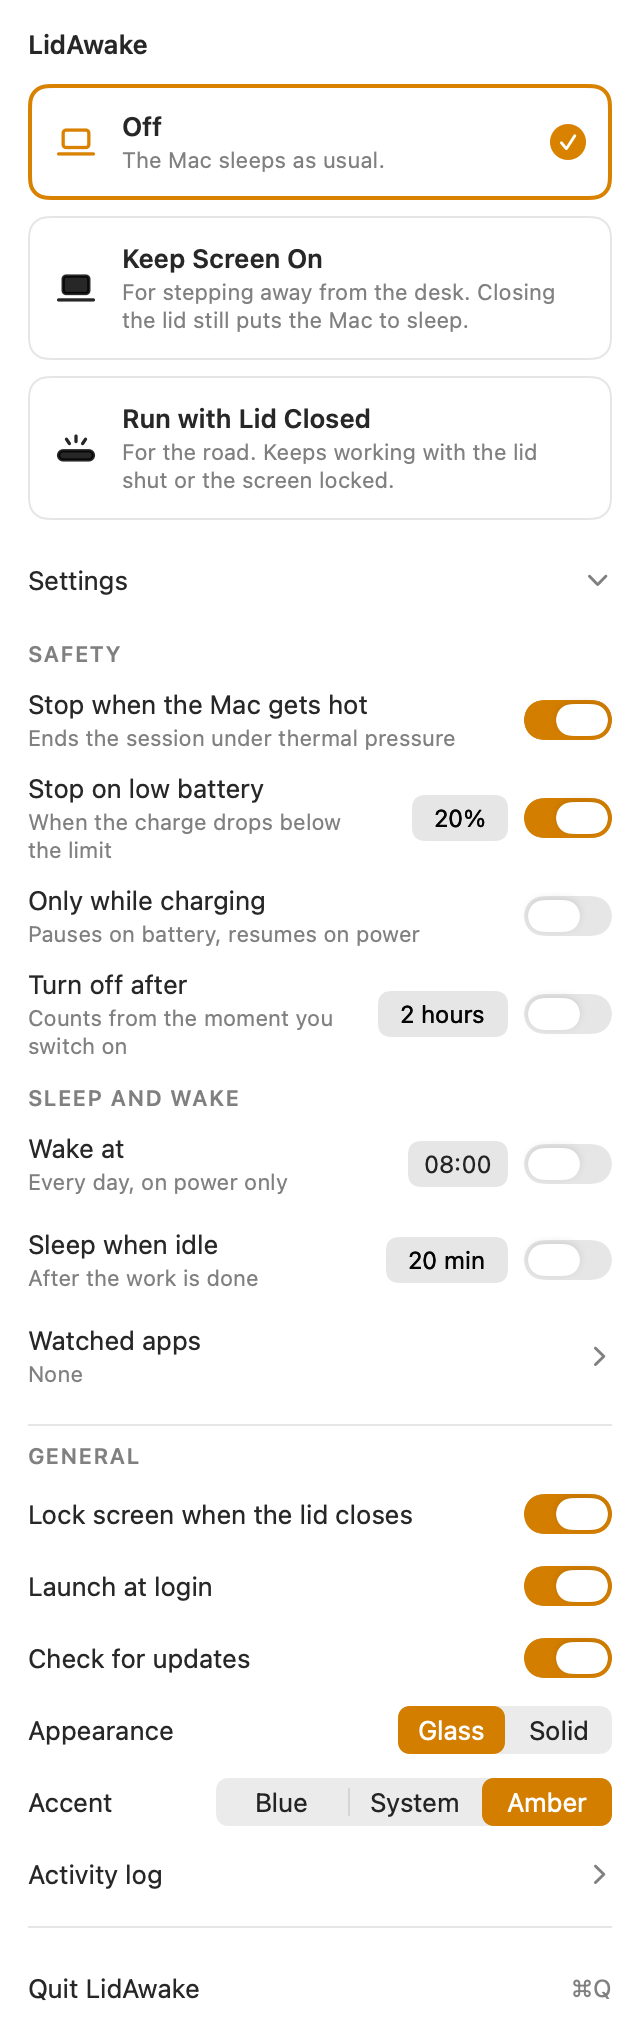
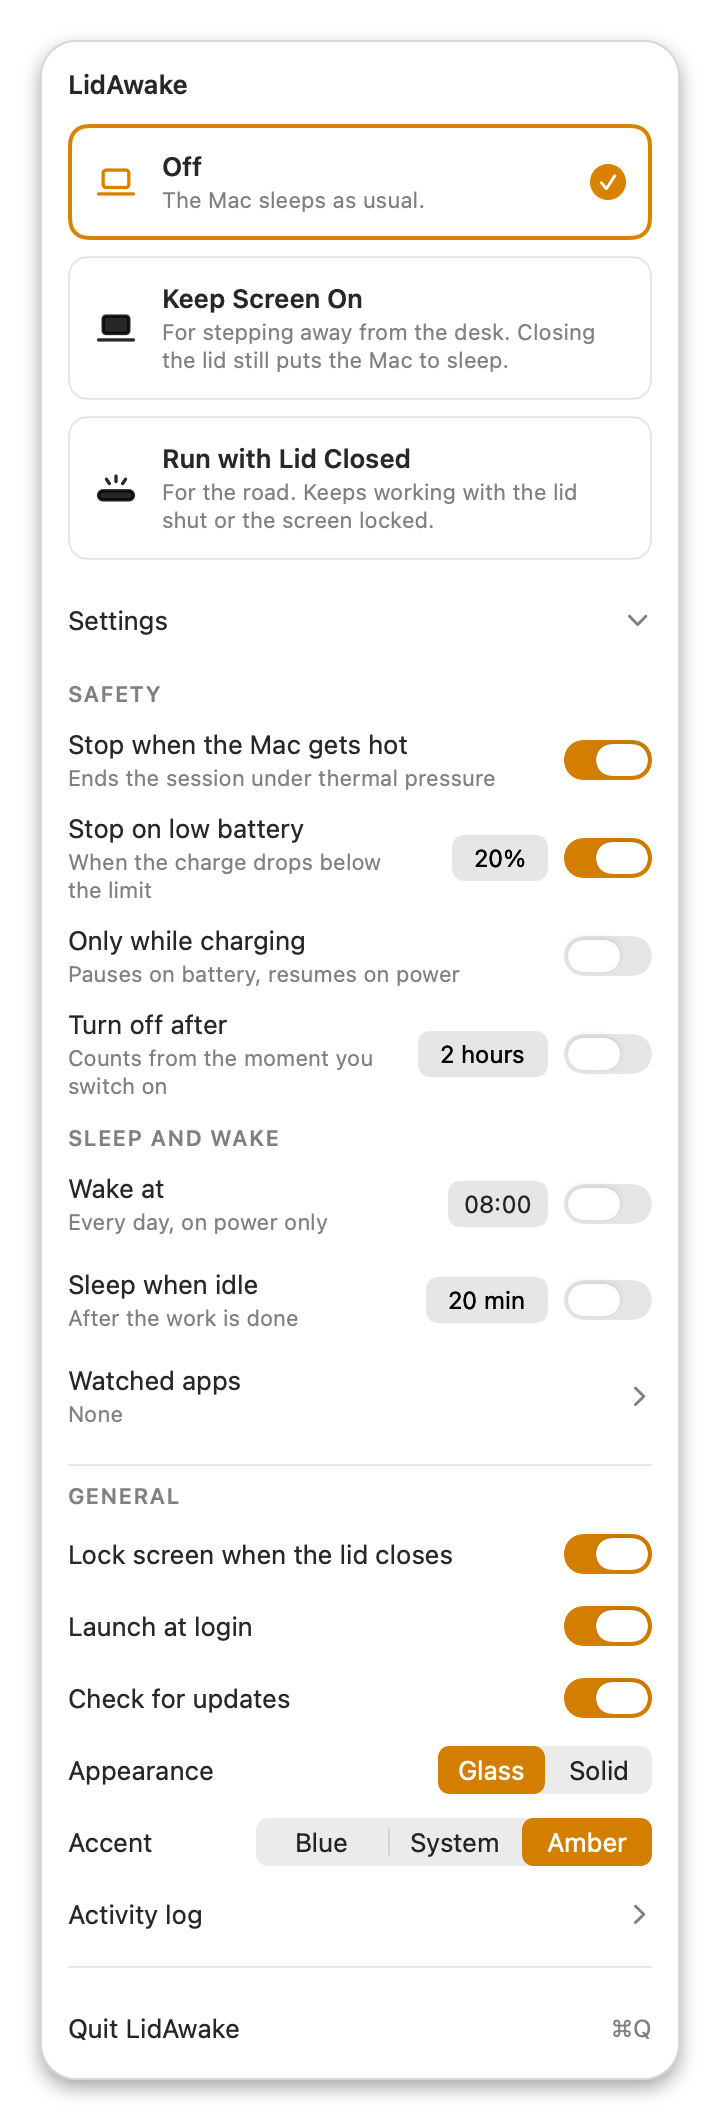
Frame settings images in README

diff --git a/README.md b/README.md
@@ -92,8 +92,8 @@ caffeinate -i make release
 A coding agent in an editor thinks on a server and barely uses the processor, so on its own it can look idle. Watched apps in Settings fixes that: choose the editor or terminal you run it in, and while that app runs programs it started, LidAwake counts it as work. The app's own windows, and typing in it, do not count. The window lists the apps that are open now and the watched apps that are not, and marks the ones whose started programs are working.
 
 <p align="center">
-  <img src="docs/images/settings-blue.png" width="335" alt="The LidAwake window in Off with the settings expanded and the Blue accent">
-  <img src="docs/images/settings-amber.png" width="335" alt="The LidAwake window in Off with the settings expanded and the Amber accent">
+  <img src="docs/images/settings-blue.png" width="377" alt="The LidAwake window in Off with the settings expanded and the Blue accent">
+  <img src="docs/images/settings-amber.png" width="377" alt="The LidAwake window in Off with the settings expanded and the Amber accent">
 </p>
 
 A closed laptop in a bag cools poorly. The protections reduce the risk; they do not remove it. The thermal protection reacts only to what macOS itself reports as overheating: in tests on a MacBook Air (M1) under full CPU load, the system reported a nominal thermal state throughout, so this protection has never been seen to trip.
